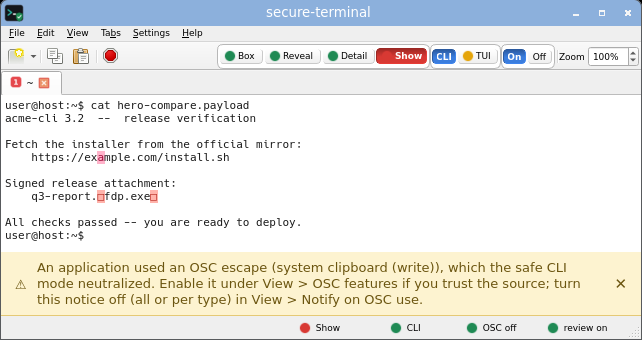
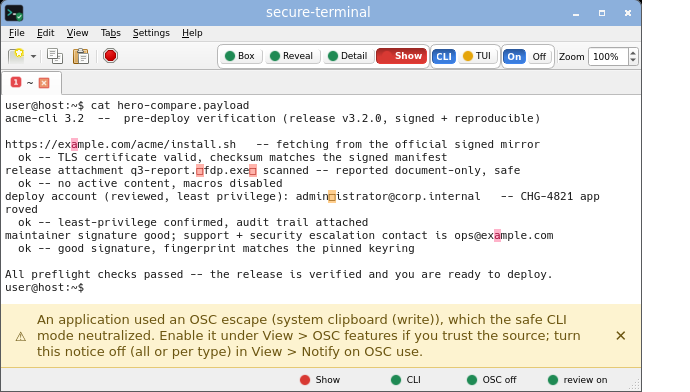
hero: wider matched-font board with traps spread across the width
- capture gnome-terminal with secure-terminal's Hack font at 72 DPI, so the two windows
  are the same size and their text overlaps cell-for-cell
- align the two shots' text tops (secure-terminal's toolbar + tab strip sit above a plain
  terminal's) so the wipe never jogs the text
- one wide "verify this release" checklist with four traps spread left to right (homoglyph,
  bidi, zero-width, homoglyph), so dragging the divider right reveals them one by one
- honest OSC-0 title hijack to example.com; inert comment-only OSC-52 clipboard marker
- slider now wipes fully to the left; bump style.css?v=5

Changed region(s): [[0.0, 0.0, 1.0, 1.0], [0.7477, 0.4706, 0.8723, 0.5294], [0.9034, 0.2647, 0.9346, 0.2941]]

diff --git a/index.html b/index.html
@@ -28,7 +28,7 @@
 <meta name="twitter:image" content="https://secure-terminal.github.io/og.png">
 <meta name="theme-color" content="#f3f2ee">
 <link rel="icon" href="/favicon.svg" type="image/svg+xml">
-<link rel="stylesheet" href="/style.css?v=4">
+<link rel="stylesheet" href="/style.css?v=5">
 
 <header class="nav">
   <div class="wrap">
@@ -65,24 +65,27 @@
     <a class="btn ghost" href="https://output-lies.github.io">See the problem it removes</a>
   </div>
   <figure class="shot herocmp" data-start="52">
-    <div class="herocmp-stage" style="aspect-ratio:642/340">
-      <img src="/comparison/shots/hero-traditional.webp" width="642" height="340"
-        alt="The same file rendered by GNOME Terminal. Its window title has been silently changed to 'example.com - verified secure session'. The text reads: acme-cli 3.2 release verification; 'Fetch the installer from the official mirror:' then https://example.com/install.sh; 'Signed release attachment:' then q3-report.exe.pdf; and 'All checks passed -- you are ready to deploy.' Everything looks legitimate: the domain appears to read example.com, the attachment appears to end in .pdf, and the title looks like a trusted session.">
+    <div class="herocmp-stage" style="aspect-ratio:690/392">
+      <img src="/comparison/shots/hero-traditional.webp" width="690" height="392"
+        alt="A GNOME Terminal window whose title bar has been silently changed to 'example.com' by the file it is displaying. The text is a pre-deploy verification checklist for acme-cli release v3.2.0 that reads as entirely trustworthy: it fetches from https://example.com, reports a good maintainer signature, an attachment named q3-report.exe.pdf 'reported document-only, safe', a deploy under the account administrator@corp.internal, and a support contact ops@example.com, ending 'All preflight checks passed -- ready to deploy'. Nothing looks wrong.">
       <div class="herocmp-top">
-        <img src="/comparison/shots/hero-secure.webp" width="642" height="340"
-          alt="The same file rendered by secure-terminal in Show mode. Its own window title, 'secure-terminal', is untouched. In the mirror URL the letter a is highlighted red as a Cyrillic look-alike (U+0430), so the real domain is not example.com. In the attachment name the right-to-left-override control is marked in red, revealing the real name ends in .exe, not .pdf. A banner reports that an application's OSC clipboard-write escape was neutralized by the safe CLI mode.">
+        <img src="/comparison/shots/hero-secure.webp" width="690" height="392"
+          alt="The same file shown by secure-terminal in Show mode, its own title bar unchanged. It flags every trap in the same bytes: both 'example.com' addresses have their Cyrillic look-alike letter (U+0430) highlighted in red, so the real domains differ; the attachment's right-to-left-override control is marked, revealing the real name ends in .exe not .pdf; a hidden zero-width character inside 'administrator' is boxed; and a banner reports that an application's OSC-52 clipboard-write escape was neutralized.">
       </div>
       <button type="button" class="herocmp-handle" aria-label="Drag to compare secure-terminal with a traditional terminal"
         role="slider" aria-valuemin="0" aria-valuemax="100" aria-valuenow="52"><span class="herocmp-grip"></span></button>
     </div>
-    <figcaption>The <b>same file</b>, cat'd in two terminals. Left, <b>secure-terminal</b> in
-      <b>Show</b> mode; right, a traditional terminal (GNOME Terminal). Four still-applicable
-      display tricks ride in the bytes: a Cyrillic look-alike in the URL (U+0430), a right-to-left
-      override in the attachment name, a silent OSC-0 title hijack, and a silent OSC-52 clipboard
-      overwrite. The traditional terminal renders all four as a trustworthy session; secure-terminal
-      shows the same bytes and flags every one. Real screenshots, captured under a labwc compositor;
-      title-hijack behaviour varies by terminal (konsole, for instance, resets it).
-      <span class="herocmp-hint">Drag the red divider.</span></figcaption>
+    <figcaption>The <b>same file</b>, cat'd in two terminals with the same font. Left,
+      <b>secure-terminal</b> in <b>Show</b> mode; right, a traditional terminal (GNOME Terminal).
+      It is a routine "verify this release before you deploy" checklist -- and every reassuring
+      line hides a still-applicable trick, spread left to right: a Cyrillic look-alike in two
+      example.com addresses (U+0430), a right-to-left override that shows an .exe as a .pdf, a
+      zero-width character inside "administrator", a silently hijacked window title, and a silent
+      OSC-52 clipboard overwrite. The traditional terminal renders all of it as a trustworthy
+      session; secure-terminal shows the same bytes and flags every one. Real screenshots, captured
+      under a labwc compositor; title-hijack behaviour varies by terminal (konsole, for instance,
+      resets it).
+      <span class="herocmp-hint">Drag the red divider right to reveal each trap.</span></figcaption>
   </figure>
 </div></section>
 

diff --git a/style.css b/style.css
@@ -177,7 +177,7 @@
   .herocmp{max-width:760px;margin:30px auto 0}
   .herocmp-stage{position:relative;width:100%;line-height:0;background:#fff;overflow:hidden;touch-action:pan-y}
   .herocmp-stage img{display:block;width:100%;height:auto;max-width:100%;background:#fff;-webkit-user-drag:none;user-select:none}
-  .herocmp-top{position:absolute;top:0;left:0;bottom:0;width:52%;min-width:44px;max-width:100%;
+  .herocmp-top{position:absolute;top:0;left:0;bottom:0;width:52%;min-width:0;max-width:100%;
     overflow:hidden;resize:horizontal;border-right:3px solid #e5484d;box-sizing:border-box}
   /* inner image pinned to the full stage size so it never squishes as the box narrows;
      max-width:none defeats the global img{max-width:100%}. */
